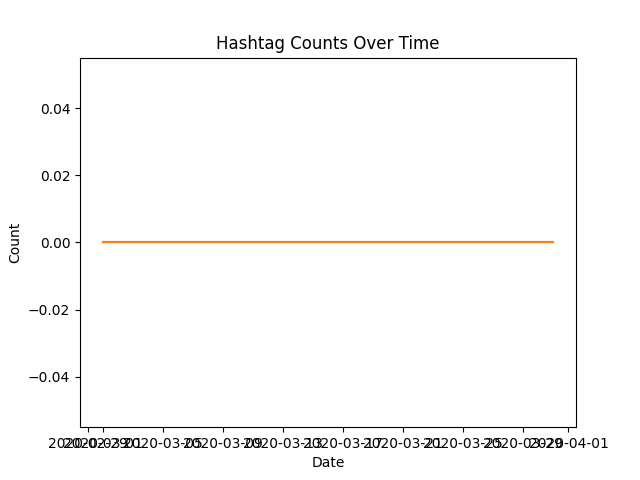
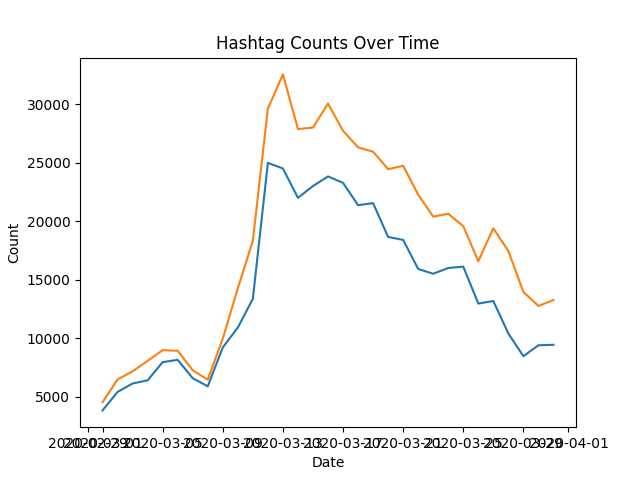
new attempt for part 4

diff --git a/src/alternative_reduce.py b/src/alternative_reduce.py
@@ -23,9 +23,9 @@ for path in args.input_paths:
         date_str = path.split('.')[0].split('-')[1:]
         month, day = date_str
         date_obj = datetime(2020, int(month), int(day))
-        for _,counts in tmp.items():
-            for hashtag, count, in counts.items():
-                total[date_obj][hashtag] += count
+        for hashtag,counts in tmp.items():
+            for lang, count, in counts.items():
+                total[date_obj][hashtag] += tmp[hashtag][lang]
 
 # write the output path
 json_total = {d.isoformat(): dict(total[d]) for d in total}
